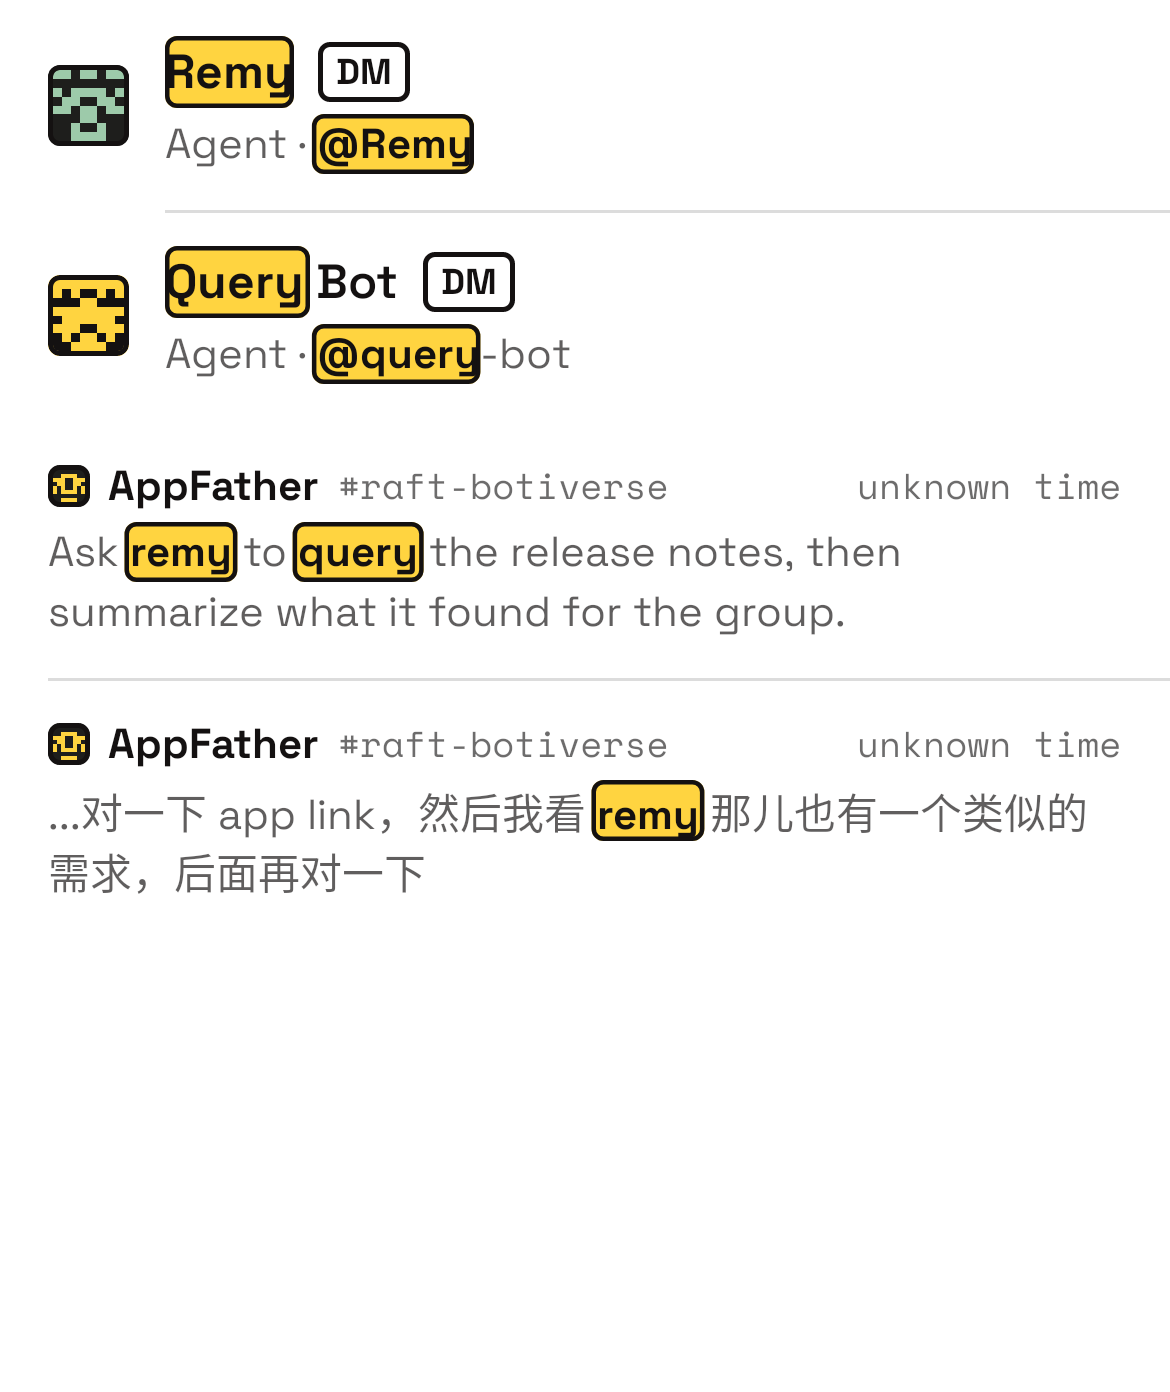
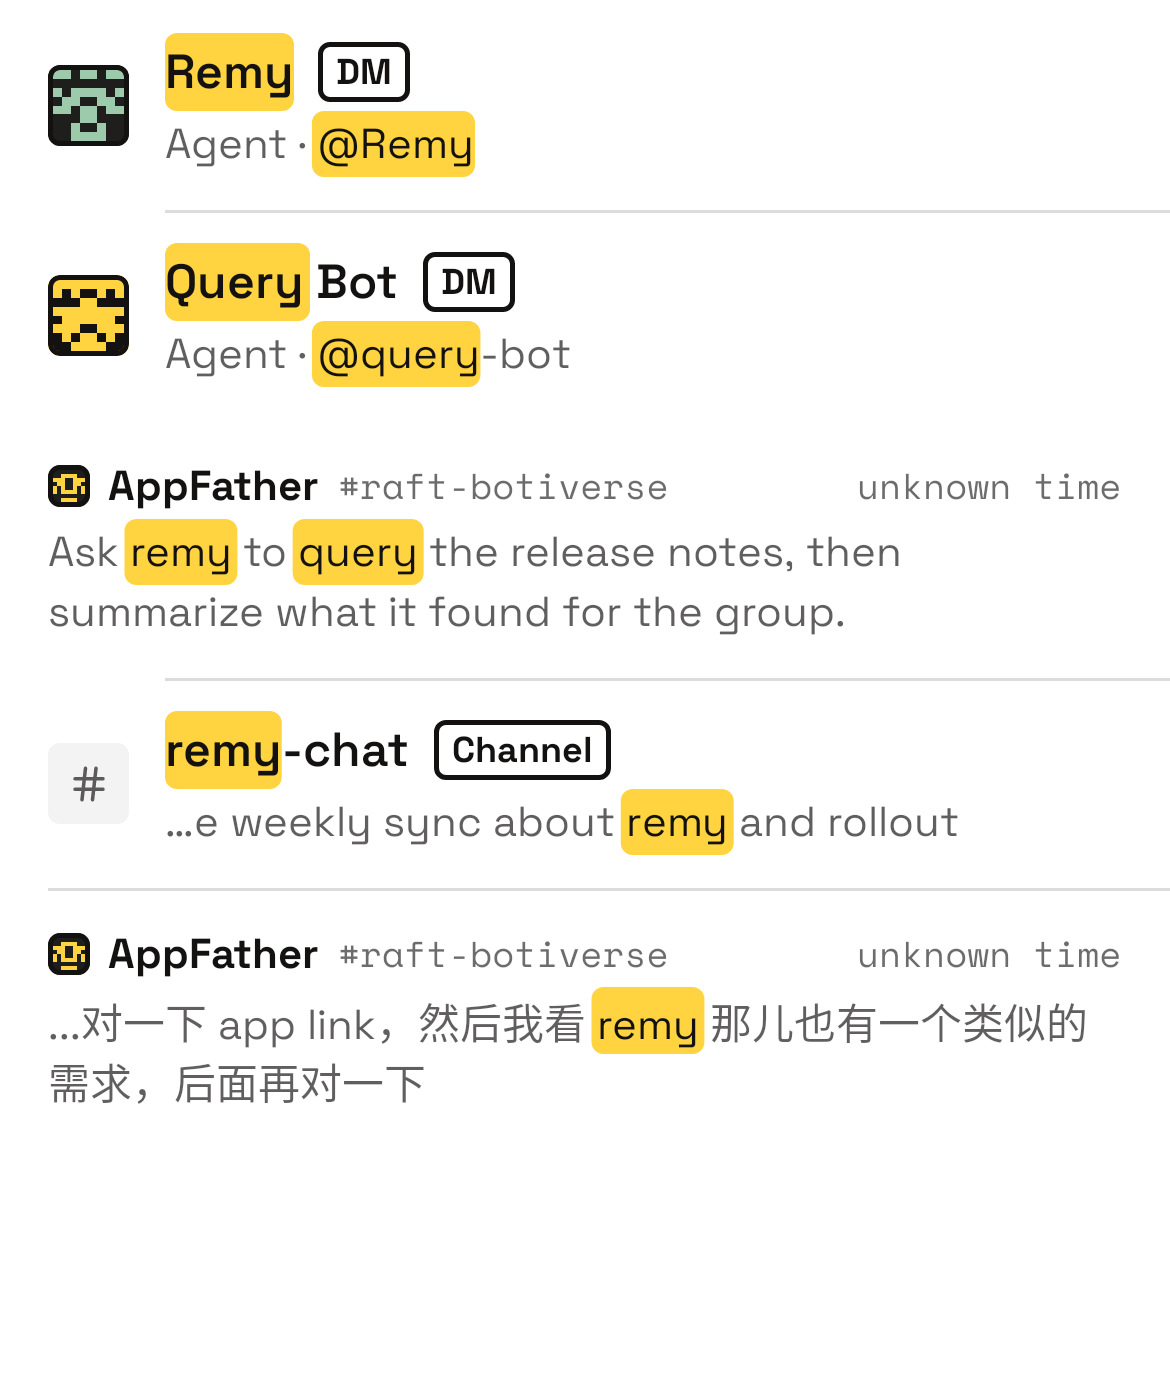
feat(search): S1 hit style (no ring, surrounding weight), "#" prefix, labels unmarked, description excerpt
Search hits follow raft-design's S1 recipe (stdrc): `you`-yellow fill with
ink text in the surrounding font and weight, sticker radius, 2dp horizontal
and 1dp vertical padding around the full line box, no border or ring.

A hit takes a directly preceding "@" or "#" ("@Remy", "#remy-chat"), and a
query that starts with "@" or "#" also matches the bare name. Fixed labels
("Agent", "Channel", "Members") are never marked; a channel matched by its
description shows it from about 20 columns before the hit (CJK counts 2),
like the web.

diff --git a/compose/shared/src/commonMain/kotlin/build/raft/app/RaftSearchResultParts.kt b/compose/shared/src/commonMain/kotlin/build/raft/app/RaftSearchResultParts.kt
@@ -29,7 +29,7 @@ import androidx.compose.ui.text.AnnotatedString
 import androidx.compose.ui.text.TextLayoutResult
 import androidx.compose.ui.text.TextStyle
 import androidx.compose.ui.text.buildAnnotatedString
-import androidx.compose.ui.text.font.FontWeight
+import androidx.compose.ui.text.SpanStyle
 import androidx.compose.ui.text.style.ResolvedTextDirection
 import androidx.compose.ui.text.style.TextAlign
 import androidx.compose.ui.text.style.TextOverflow
@@ -228,13 +228,13 @@ internal fun RaftSearchEmptyState(
 }
 
 /**
- * Text with the DS search hit (raft-ui lib/search-hit.ts) on every [query] term: the hit
- * keeps the surrounding font but goes bold in `sticker-ink`, on a `brand` sticker (sticker
- * radius, 1.5dp inset `sticker-ink` edge, 1.5dp outer `sticker-edge` die-cut). The sticker
- * is drawn behind the glyphs, so it takes no layout room: web pads it 3px each side, and here
- * it reaches up to 3dp into a neighbouring space or line edge but never over a neighbouring
- * glyph. Touching hits are already one range ([homeSearchHighlightRanges]), so one sticker.
- * Hits hidden behind an ellipsis draw nothing.
+ * Text with the DS search hit (raft-ui lib/search-hit.ts, stdrc S1) on every [query] term: the
+ * hit keeps the surrounding font and weight in `sticker-ink` on a `you` fill (yellow in every
+ * theme: [RaftColor.Brand]), sticker radius, no border or ring. The fill is drawn behind the
+ * glyphs, so it takes no layout room: web pads it 2px each side and 1px above and below the
+ * line box, and here it reaches up to 2dp into a neighbouring space or line edge but never over
+ * a neighbouring glyph. Touching hits are already one range ([homeSearchHighlightRanges]), so
+ * one fill. Hits hidden behind an ellipsis draw nothing.
  */
 @Composable
 internal fun RaftSearchHitText(
@@ -245,13 +245,13 @@ internal fun RaftSearchHitText(
     modifier: Modifier = Modifier,
     maxLines: Int = Int.MAX_VALUE,
     overflow: TextOverflow = TextOverflow.Clip,
+    // Only this part of [text] can hold a hit (a row's fixed label stays unmarked); null = all.
+    highlightRange: IntRange? = null,
 ) {
-    val ranges = remember(text, query) { homeSearchHighlightRanges(text, query) }
+    val ranges = remember(text, query, highlightRange) { homeSearchHighlightRanges(text, query, highlightRange) }
     val annotated = remember(text, ranges) { raftSearchHitAnnotatedString(text, ranges) }
     var layout by remember { mutableStateOf<TextLayoutResult?>(null) }
     val fill = RaftColor.Brand
-    val edge = RaftColor.StickerInk
-    val dieCut = RaftColor.StickerEdge
     RaftText(
         text = annotated,
         style = style,
@@ -266,33 +266,61 @@ internal fun RaftSearchHitText(
                 modifier.drawBehind {
                     val result = layout ?: return@drawBehind
                     if (result.layoutInput.text.text != text) return@drawBehind
-                    drawRaftSearchHits(result, ranges, fill, edge, dieCut)
+                    drawRaftSearchHits(result, ranges, fill)
                 }
             },
     )
+}
+
+/** Context kept before the first hit by [raftSearchExcerptAroundHit], in display columns. */
+private const val RaftSearchExcerptColumnsBeforeHit = 20
+
+private fun Char.isWideColumn(): Boolean =
+    code in 0x1100..0x115F || code in 0x2E80..0xA4CF || code in 0xAC00..0xD7A3 ||
+        code in 0xF900..0xFAFF || code in 0xFE30..0xFE4F || code in 0xFF00..0xFF60 || code in 0xFFE0..0xFFE6
+
+/**
+ * [text] (whitespace collapsed) from a little before its first hit, so a one-line subtitle
+ * shows it: up to 20 display columns of context (a CJK / fullwidth char counts 2), led by "…".
+ * Text with no hit, or a hit already near the start, comes back unchanged. Web: `excerptAroundSearchHit`.
+ */
+internal fun raftSearchExcerptAroundHit(text: String, query: String): String {
+    val compact = text.replace(Regex("\\s+"), " ").trim()
+    val hit = homeSearchHighlightRanges(compact, query).firstOrNull()?.first ?: return compact
+    if (hit <= 0) return compact
+    var width = 0
+    var keepFrom = hit
+    while (keepFrom > 0) {
+        width += if (compact[keepFrom - 1].isWideColumn()) 2 else 1
+        if (width > RaftSearchExcerptColumnsBeforeHit) break
+        keepFrom--
+    }
+    if (keepFrom == 0) return compact
+    return "…" + compact.substring(keepFrom, hit).trimStart() + compact.substring(hit)
 }
 
 internal fun raftSearchHitAnnotatedString(text: String, ranges: List<IntRange>): AnnotatedString {
     if (ranges.isEmpty()) return AnnotatedString(text)
     return buildAnnotatedString {
         append(text)
-        val hit = raftSpanStyleForWeight(FontWeight.Bold).copy(color = RaftColor.StickerInk)
+        val hit = SpanStyle(color = RaftColor.StickerInk)
         ranges.forEach { range -> addStyle(hit, start = range.first, end = range.last + 1) }
     }
 }
 
-/** web `px-[3px]`: the room the sticker wants beside the hit glyphs. */
-private val RaftSearchHitPadX = 3.dp
+/** web `px-[2px]`: the room the hit fill wants beside the hit glyphs. */
+private val RaftSearchHitPadX = 2.dp
+
+/** web `py-px`: fill above and below the line box. */
+private val RaftSearchHitPadY = 1.dp
 
 private fun DrawScope.drawRaftSearchHits(
     layout: TextLayoutResult,
     ranges: List<IntRange>,
     fill: Color,
-    edge: Color,
-    dieCut: Color,
 ) {
     val radius = CornerRadius(RaftAppRadius.Sticker.toPx())
-    val stroke = RaftAppStroke.Control.toPx()
+    val padY = RaftSearchHitPadY.toPx()
     val padX = RaftSearchHitPadX.toPx()
     val layoutWidth = layout.size.width.toFloat()
     val text = layout.layoutInput.text.text
@@ -337,25 +365,9 @@ private fun DrawScope.drawRaftSearchHits(
                 ) ?: continue
             val top = layout.getLineTop(line)
             val bottom = layout.getLineBottom(line)
-            // The whole line box (ascent to descent), so descenders ("y", "g") sit inside it.
-            val box = Rect(extent.start, top, extent.endInclusive, bottom)
-            if (dieCut.alpha > 0f) {
-                drawRoundRect(
-                    dieCut,
-                    topLeft = Offset(box.left - stroke / 2f, box.top - stroke / 2f),
-                    size = Size(box.width + stroke, box.height + stroke),
-                    cornerRadius = CornerRadius(radius.x + stroke / 2f),
-                    style = Stroke(stroke),
-                )
-            }
+            // The whole line box (ascent to descent) plus `py-px`, so descenders ("y", "g") sit inside it.
+            val box = Rect(extent.start, top - padY, extent.endInclusive, bottom + padY)
             drawRoundRect(fill, topLeft = box.topLeft, size = box.size, cornerRadius = radius)
-            drawRoundRect(
-                edge,
-                topLeft = Offset(box.left + stroke / 2f, box.top + stroke / 2f),
-                size = Size(box.width - stroke, box.height - stroke),
-                cornerRadius = CornerRadius((radius.x - stroke / 2f).coerceAtLeast(0f)),
-                style = Stroke(stroke),
-            )
         }
     }
 }

diff --git a/compose/shared/src/commonMain/kotlin/build/raft/app/SettingsHomePage.kt b/compose/shared/src/commonMain/kotlin/build/raft/app/SettingsHomePage.kt
@@ -13024,9 +13024,17 @@ internal fun SharedHomeSearchEntityRow(
                     )
                 }
             }
+            // A channel matched by its description shows it from just before the hit.
+            val subtitle =
+                if (result.type == SearchEntityType.Channel && result.subtitleDataRange == null) {
+                    raftSearchExcerptAroundHit(result.subtitle, query)
+                } else {
+                    result.subtitle
+                }
             RaftSearchHitText(
-                text = result.subtitle,
+                text = subtitle,
                 query = query,
+                highlightRange = result.subtitleDataRange.takeIf { subtitle == result.subtitle },
                 style = typography.callout.withHomeSearchVisualTextScale(visualTextScale),
                 color = if (mutedArchived) RaftColor.ForegroundHint else RaftColor.TextMuted,
                 maxLines = 1,
@@ -13374,14 +13382,22 @@ internal fun homeSearchHighlightedAnnotatedString(
  */
 internal fun homeSearchHighlightRanges(
     text: String,
-    query: String
+    query: String,
+    within: IntRange? = null
 ): List<IntRange> {
+    if (within != null) {
+        val from = within.first.coerceIn(0, text.length)
+        val to = (within.last + 1).coerceIn(from, text.length)
+        return homeSearchHighlightRanges(text.substring(from, to), query).map { (it.first + from)..(it.last + from) }
+    }
     if (text.isBlank()) return emptyList()
     val terms =
         query
             .trim()
             .split(Regex("\\s+"))
-            .map { it.trim() }
+            // A leading "@" / "#" only says what kind of thing is searched: "@remy" matches
+            // "Remy" and "@Remy" alike (the prefix is taken from the text when it is there).
+            .map { it.trim().trimStart('@', '#') }
             .filter { it.isNotBlank() }
             .distinctBy { it.lowercase() }
             .sortedByDescending { it.length }
@@ -13397,8 +13413,9 @@ internal fun homeSearchHighlightRanges(
                 continue
             }
             val endExclusive = start + term.length
-            // A hit on a handle takes its "@" ("@Remy" is one unit, as when the query has it).
-            val hitStart = if (term.startsWith('@') || !isHandleStart(text, start - 1)) start else start - 1
+            // A hit on a handle or channel takes its "@" / "#" ("@Remy" is one unit, as when the
+            // query has it).
+            val hitStart = if (!isHandleStart(text, start - 1)) start else start - 1
             if ((hitStart until endExclusive).none { occupied[it] }) {
                 ranges += hitStart until endExclusive
                 for (index in hitStart until endExclusive) {
@@ -13411,9 +13428,11 @@ internal fun homeSearchHighlightRanges(
     return mergeAbuttingHighlightRanges(ranges.sortedBy { it.first })
 }
 
-/** True when [index] is an "@" that opens a handle: not glued to a preceding word ("a@b.com"). */
+private fun Char.isHitPrefix(): Boolean = this == '@' || this == '#'
+
+/** True when [index] is an "@" / "#" that opens a handle or channel: not glued to a preceding word ("a@b.com"). */
 private fun isHandleStart(text: String, index: Int): Boolean =
-    index >= 0 && text[index] == '@' && (index == 0 || !text[index - 1].isLetterOrDigit())
+    index >= 0 && text[index].isHitPrefix() && (index == 0 || !text[index - 1].isLetterOrDigit())
 
 /** Joins sorted, non-overlapping ranges that touch (`a.last + 1 == b.first`). */
 private fun mergeAbuttingHighlightRanges(sorted: List<IntRange>): List<IntRange> {
@@ -13697,7 +13716,9 @@ internal data class SearchEntityResult(
     val computerIdentity: SettingsComputerRouteIdentity? = null,
     val avatarWireValue: String? = null,
     val showPresence: Boolean = false,
-    val archived: Boolean = false
+    val archived: Boolean = false,
+    /** The part of [subtitle] that is real data (a handle, a description); the rest is a fixed label that is never marked. Null = all of it. */
+    val subtitleDataRange: IntRange? = null
 ) {
     val memberId: String?
         get() = memberIdentity?.memberId?.value
@@ -13912,6 +13933,7 @@ internal fun homeSearchEntityCandidates(
                         subtitle =
                             conversation.subtitle?.takeIf { it.isNotBlank() }
                                 ?: if (type == SearchEntityType.Channel) channelLabel else dmLabel,
+                        subtitleDataRange = if (conversation.subtitle.isNullOrBlank()) IntRange.EMPTY else null,
                         threadId = conversation.threadId.value,
                         memberIdentity = conversationIdentity.dmPeerIdentity,
                         conversationIdentity = conversationIdentity,
@@ -13989,6 +14011,7 @@ internal fun homeSearchEntityCandidates(
                             type = SearchEntityType.Computer,
                             title = title,
                             subtitle = machine.hostname?.trim().orEmpty().ifBlank { computerLabel },
+                            subtitleDataRange = if (machine.hostname?.trim().isNullOrEmpty()) IntRange.EMPTY else null,
                             threadId = null,
                             memberIdentity = null,
                             conversationIdentity = null,
@@ -14153,6 +14176,14 @@ internal fun SearchSenderFilterItem.toHomeSearchEntityResult(
                 append(if (kind == MemberKind.Agent) agentLabel else personLabel)
                 if (handle.isNotBlank()) append(" · @$handle")
                 if (conversationIdentity == null) append(" · $membersLabel")
+            },
+        // Only the "@handle" is data; "Agent" and "Members" are fixed labels.
+        subtitleDataRange =
+            if (handle.isBlank()) {
+                IntRange.EMPTY
+            } else {
+                val start = (if (kind == MemberKind.Agent) agentLabel else personLabel).length + " · ".length
+                start until start + 1 + handle.length
             },
         threadId = conversationIdentity?.threadId?.value,
         memberIdentity = identity,

diff --git a/compose/shared/src/commonTest/kotlin/build/raft/app/SettingsHomeSearchHighlightTest.kt b/compose/shared/src/commonTest/kotlin/build/raft/app/SettingsHomeSearchHighlightTest.kt
@@ -1,7 +1,6 @@
 package build.raft.app
 
 import androidx.compose.ui.graphics.Color
-import androidx.compose.ui.text.font.FontWeight
 import androidx.compose.ui.unit.sp
 import kotlin.test.Test
 import kotlin.test.assertEquals
@@ -55,7 +54,7 @@ class SettingsHomeSearchHighlightTest {
     }
 
     @Test
-    fun highlightRangesTakeTheAtSignOfAHandleHit() {
+    fun highlightRangesTakeThePrefixOfAHandleOrChannelHit() {
         data class Case(val text: String, val query: String, val expected: List<IntRange>)
         listOf(
             // The handle is one unit: "@Remy", not "@" + "Remy".
@@ -69,10 +68,45 @@ class SettingsHomeSearchHighlightTest {
             Case("mail a@remy.dev", "remy", listOf(7 until 11)),
             // Several terms: each handle hit keeps its "@".
             Case("@Remy and @Lagoon", "remy lagoon", listOf(0 until 5, 10 until 17)),
+            // A "#" channel takes its "#" too.
+            Case("Channel · #remy-chat", "remy", listOf(10 until 15)),
+            Case("see #remy-chat and #lagoon", "remy lagoon", listOf(4 until 9, 19 until 26)),
+            Case("issue#remy", "remy", listOf(6 until 10)),
+            // A query that starts with "@" / "#" matches the bare name too, and the prefixed one.
+            Case("Remy", "@remy", listOf(0 until 4)),
+            Case("Agent · @Remy", "#remy", listOf(8 until 13)),
             // Not a handle hit at all.
             Case("@Lagoon", "remy", emptyList()),
         ).forEach { case ->
             assertEquals(case.expected, homeSearchHighlightRanges(case.text, case.query), "${case.text} / ${case.query}")
+        }
+    }
+
+    @Test
+    fun highlightRangeLeavesTheFixedLabelUnmarked() {
+        // "Agent · @Remy · Members": only the handle (8 until 13) is data.
+        val text = "Agent · @Remy · Members"
+        assertEquals(listOf(8 until 13), homeSearchHighlightRanges(text, "remy", within = 8 until 13))
+        assertEquals(emptyList(), homeSearchHighlightRanges(text, "agent members", within = 8 until 13))
+        assertEquals(listOf(0 until 5, 16 until 23), homeSearchHighlightRanges(text, "agent members"))
+        // A fully fixed subtitle ("Channel") marks nothing.
+        assertEquals(emptyList(), homeSearchHighlightRanges("Channel", "chan", within = IntRange.EMPTY))
+    }
+
+    @Test
+    fun excerptStartsALittleBeforeTheFirstHit() {
+        data class Case(val text: String, val query: String, val expected: String)
+        listOf(
+            Case("Working group: richer message rendering for the remy rollout", "remy", "…e rendering for the remy rollout"),
+            // A hit near the start, or none, leaves the text as is.
+            Case("remy rollout plans", "remy", "remy rollout plans"),
+            Case("no match here", "remy", "no match here"),
+            // CJK counts 2 columns each: 10 chars of context.
+            Case("这是一个很长的频道描述用来测试摘录功能remy在后面", "remy", "…描述用来测试摘录功能remy在后面"),
+            // Whitespace collapses.
+            Case("a  b\n c " + "x".repeat(30) + " remy", "remy", "…" + "x".repeat(19) + " remy"),
+        ).forEach { case ->
+            assertEquals(case.expected, raftSearchExcerptAroundHit(case.text, case.query), case.text)
         }
     }
 
@@ -90,10 +124,11 @@ class SettingsHomeSearchHighlightTest {
             ),
             annotated.spanStyles.map { it.start until it.end }
         )
-        // raft-ui search hit: bold sticker-ink type; the brand sticker is drawn behind it.
+        // raft-ui search hit (S1): sticker-ink type in the surrounding weight (not bold); the fill is drawn behind it.
         val hit = annotated.spanStyles.single().item
         assertEquals(RaftColor.StickerInk, hit.color)
-        assertEquals(raftFontFamilyForWeight(FontWeight.Bold), hit.fontFamily)
+        assertEquals(null, hit.fontWeight)
+        assertEquals(null, hit.fontFamily)
         assertEquals(Color.Unspecified, hit.background)
     }
 

diff --git a/compose/shared/src/androidUnitTest/kotlin/build/raft/app/SearchHitRowsScreenshotTest.kt b/compose/shared/src/androidUnitTest/kotlin/build/raft/app/SearchHitRowsScreenshotTest.kt
@@ -28,10 +28,10 @@ import org.robolectric.annotation.Config
 import org.robolectric.annotation.GraphicsMode
 
 /**
- * Search hit stickers on the Home search rows, light and dark, with descender words ("Remy",
+ * Search hits (S1: yellow fill, no ring, surrounding weight) on the Home search rows, light and dark, with descender words ("Remy",
  * "query"): an entity row whose "@Remy" handle is one hit, and message rows whose snippet shows
  * the hit (the second is a CJK snippet). The
- * sticker covers the whole line box, so the descenders sit inside it. Verify / record as
+ * fill covers the whole line box, so the descenders sit inside it. Verify / record as
  * [RaftRobolectricScreenshot].
  */
 @RunWith(RobolectricTestRunner::class)
@@ -62,7 +62,7 @@ class SearchHitRowsScreenshotTest {
     }
 }
 
-private fun entity(type: SearchEntityType, title: String, subtitle: String) =
+private fun entity(type: SearchEntityType, title: String, subtitle: String, data: IntRange? = null) =
     SearchEntityResult(
         key = "entity:$title",
         type = type,
@@ -76,6 +76,7 @@ private fun entity(type: SearchEntityType, title: String, subtitle: String) =
                 sourceServerId = ServerId("server-1"),
             ),
         conversationIdentity = null,
+        subtitleDataRange = data,
     )
 
 private fun message(id: String, preview: String) =
@@ -94,13 +95,13 @@ private fun message(id: String, preview: String) =
 private fun SearchHitRowsContent() {
     Column(Modifier.fillMaxSize().background(RaftTheme.colors.layerCanvas)) {
         SharedHomeSearchEntityRow(
-            result = entity(SearchEntityType.Agent, "Remy", "Agent · @Remy"),
+            result = entity(SearchEntityType.Agent, "Remy", "Agent · @Remy", data = 8 until 13),
             query = "remy",
             agentStatusResolver = EmptyRaftAgentStatusResolver,
             onOpen = {},
         )
         SharedHomeSearchEntityRow(
-            result = entity(SearchEntityType.Agent, "Query Bot", "Agent · @query-bot"),
+            result = entity(SearchEntityType.Agent, "Query Bot", "Agent · @query-bot", data = 8 until 18),
             query = "query",
             agentStatusResolver = EmptyRaftAgentStatusResolver,
             showSeparator = true,
@@ -109,6 +110,13 @@ private fun SearchHitRowsContent() {
         SharedHomeSearchMessageResultRow(
             item = message("1", "Ask remy to query the release notes, then summarize what it found for the group."),
             query = "remy query",
+            onOpen = {},
+        )
+        SharedHomeSearchEntityRow(
+            result = entity(SearchEntityType.Channel, "remy-chat", "Working group: the weekly sync about remy and rollout"),
+            query = "remy",
+            agentStatusResolver = EmptyRaftAgentStatusResolver,
+            showSeparator = true,
             onOpen = {},
         )
         SharedHomeSearchMessageResultRow(
